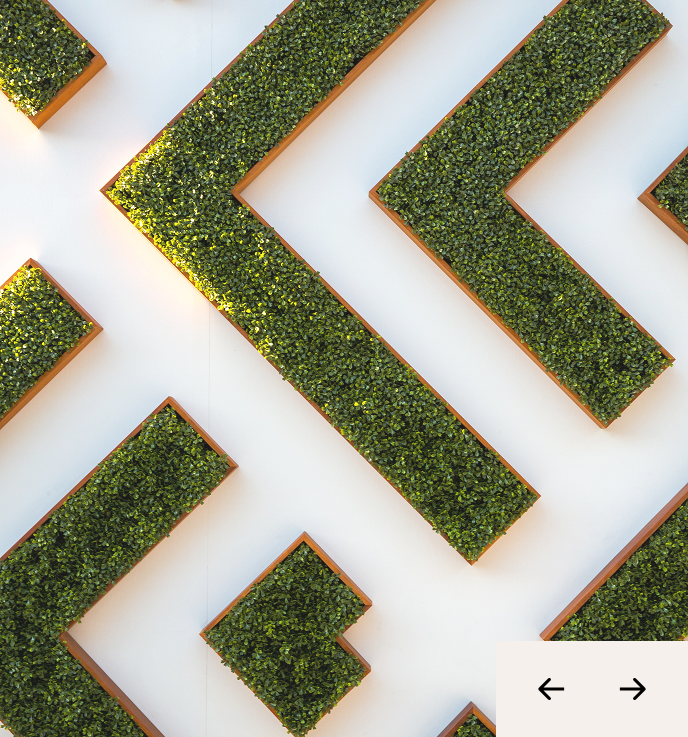
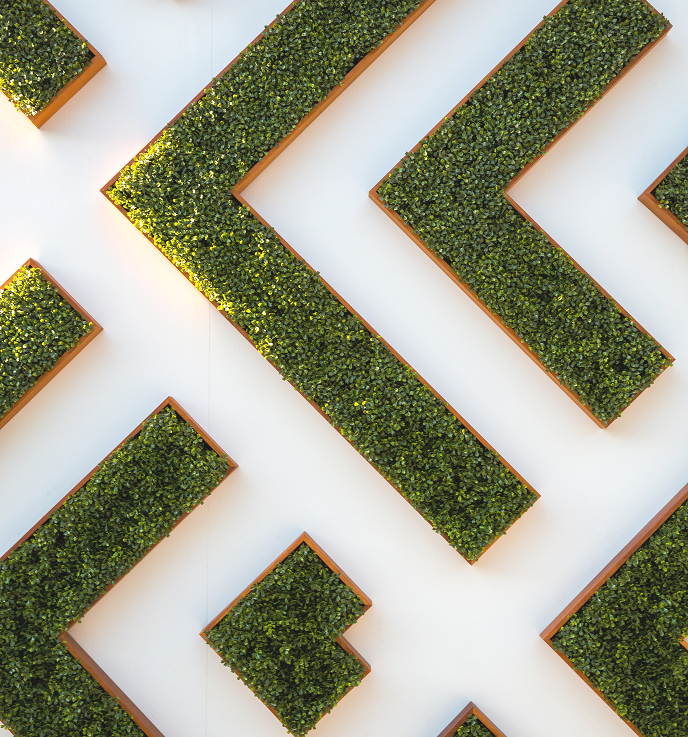
feat: improve hero slider navigation and responsiveness

Changed region(s): [[0.7631, 0.8426, 1.0, 1.0], [0.702, 0.9674, 0.7631, 1.0]]

diff --git a/src/components/Hero.jsx b/src/components/Hero.jsx
@@ -1,21 +1,34 @@
-import { useEffect, useState } from "react";
+import { useEffect, useRef, useState } from "react";
 import { AnimatePresence, motion } from "framer-motion";
-import { slides } from "../data/hero"
+import { slides } from "../data/hero";
+import arrowLeft from "../assets/icons/arrowLeft.png";
+import arrowRight from "../assets/icons/arrowRight.png";
 
 const AUTO_SLIDE_DELAY = 6000;
 
 export default function Hero() {
   const [currentSlide, setCurrentSlide] = useState(0);
 
+  const timeoutRef = useRef(null);
+
   useEffect(() => {
-    const interval = setInterval(() => {
+    timeoutRef.current = setTimeout(() => {
       setCurrentSlide((prev) => (prev + 1) % slides.length);
     }, AUTO_SLIDE_DELAY);
 
-    return () => clearInterval(interval);
-  }, []);
+    return () => clearTimeout(timeoutRef.current);
+  }, [currentSlide]);
 
   const slide = slides[currentSlide];
+
+  const nextSlide = () => {
+    clearTimeout(timeoutRef.current);
+    setCurrentSlide((prev) => (prev + 1) % slides.length);
+  };
+  const prevSlide = () => {
+    clearTimeout(timeoutRef.current);
+    setCurrentSlide((prev) => (prev - 1 + slides.length) % slides.length);
+  };
 
   return (
     <section
@@ -43,11 +56,11 @@ export default function Hero() {
                 ))}
               </h1>
 
-              <p className="mt-6 max-w-120 text-sm leading-relaxed text-ink/70 sm:text-base lg:mt-11">
+              <p className="mt-6  max-w-120 text-sm leading-relaxed text-ink/70 sm:text-base lg:mt-11">
                 {slide.desc}
               </p>
 
-              <div className="mt-8 flex flex-wrap gap-4 lg:mt-18">
+              <div className="mt-8 mb-12 flex flex-wrap gap-4 lg:mt-18">
                 <button className="rounded-full bg-forest px-5.5 py-3 text-base text-white transition-colors hover:bg-forest-light">
                   Skontaktuj się z nami
                 </button>
@@ -74,6 +87,25 @@ export default function Hero() {
               className="absolute inset-0 h-full w-full object-cover"
             />
           </AnimatePresence>
+          <div className="absolute bottom-0 right-0 flex h-16 w-32 gap-4 md:h-20 md:w-40 md:gap-6 lg:h-24 lg:w-48 lg:gap-8 items-center justify-center bg-offer px-8 ">
+            <button
+              type="button"
+              onClick={prevSlide}
+              className="transition-transform duration-200 hover:scale-110 active:scale-95"
+              aria-label="Poprzedni slajd"
+            >
+              <img src={arrowLeft} alt="" className="" />
+            </button>
+
+            <button
+              type="button"
+              onClick={nextSlide}
+              className="transition-transform duration-200 hover:scale-110 active:scale-95"
+              aria-label="Następny slajd"
+            >
+              <img src={arrowRight} alt="" className="" />
+            </button>
+          </div>
         </div>
       </div>
     </section>
